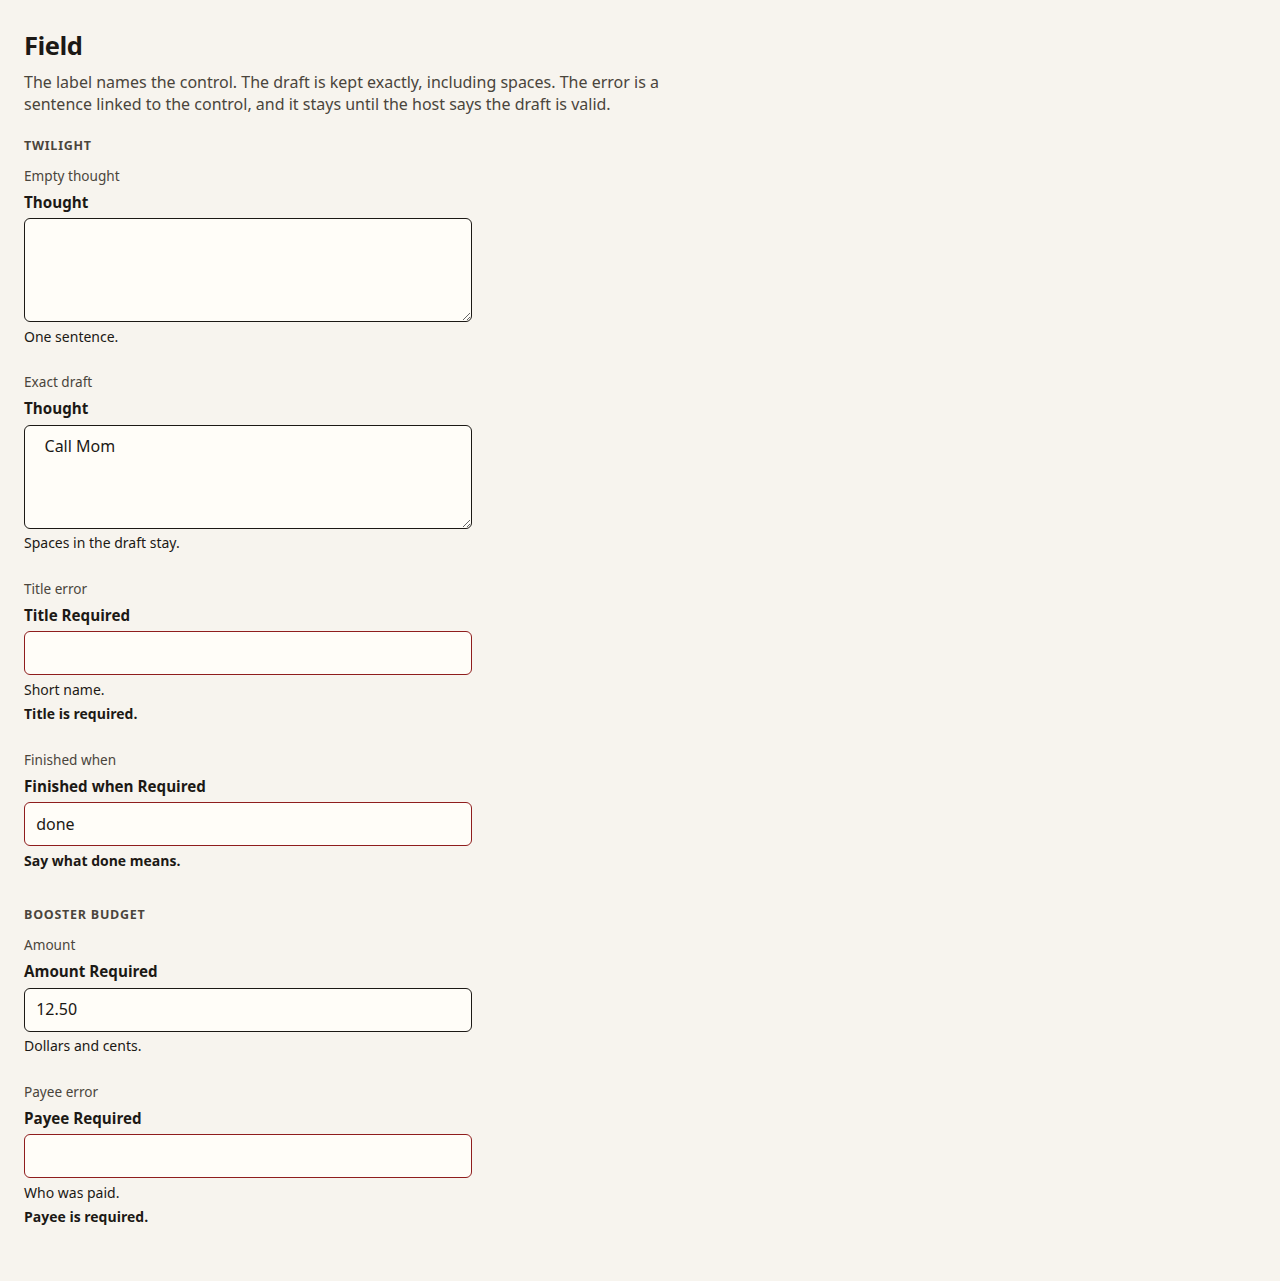
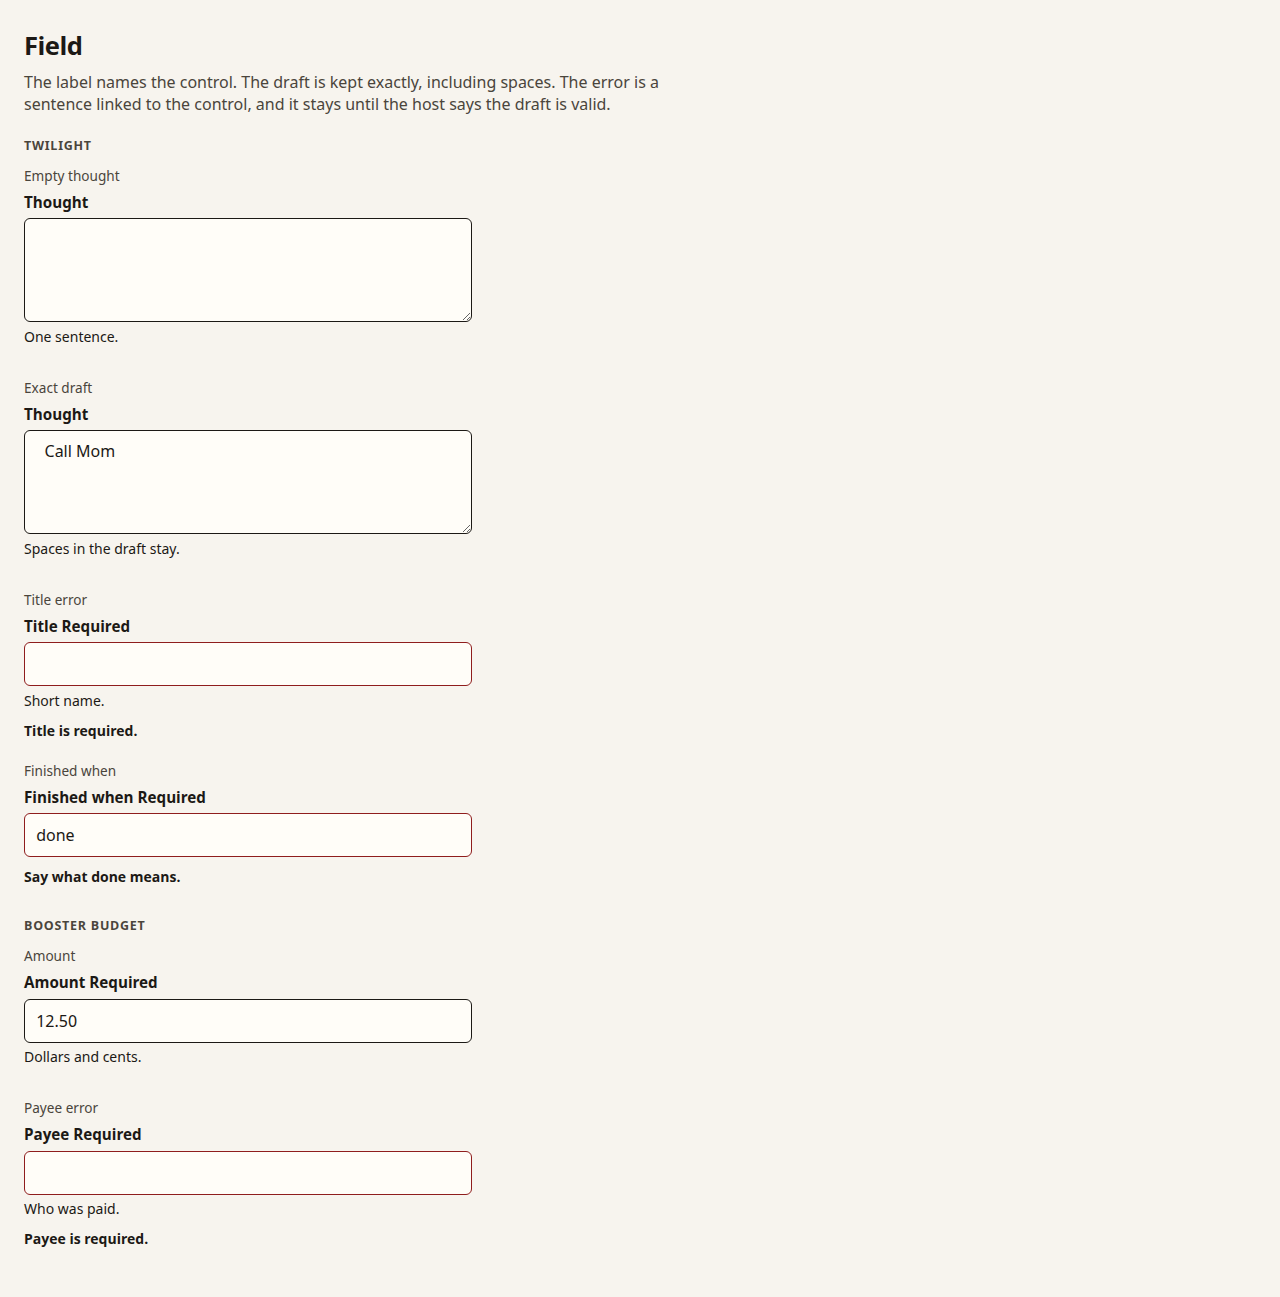
fix(components): announce Field errors after mount, once
An initial error stays out of the first paint, then fills the alert.
The same sentence is announced again after the draft changes. The
alert is the only copy, and the control points at it.

diff --git a/packages/ignite-components/src/field/field.source.ts b/packages/ignite-components/src/field/field.source.ts
@@ -18,6 +18,11 @@ export type FieldContext = {
 	hint: string | null;
 	error: string | null;
 	errorAnnouncement: string | null;
+	/** Set when the same sentence must be announced again after a draft change. */
+	repeatError: string | null;
+	errorEpoch: number;
+	draftSinceError: boolean;
+	paintNonce: number;
 	required: boolean;
 	multiline: boolean;
 	touched: boolean;
@@ -30,7 +35,8 @@ export type FieldEvent =
 	| { type: "SET_ERROR"; error: string | null }
 	| { type: "SET_REQUIRED"; required: boolean }
 	| { type: "SET_MULTILINE"; multiline: boolean }
-	| { type: "TOUCH" };
+	| { type: "TOUCH" }
+	| { type: "REVEAL" };
 
 /** The draft is the exact string. Leading and trailing spaces stay. */
 export function exactDraft(value: string | null): string {
@@ -74,23 +80,51 @@ export const fieldMachine = setup({
 		applyLabel: assign({
 			label: ({ event }) => (event.type === "SET_LABEL" ? event.label : ""),
 		}),
-		applyValue: assign({
-			value: ({ event }) =>
-				event.type === "SET_VALUE" ? exactDraft(event.value) : "",
+		applyValue: assign(({ context, event }) => {
+			if (event.type !== "SET_VALUE") return {};
+			const value = exactDraft(event.value);
+			return {
+				value,
+				draftSinceError:
+					value !== context.value ? true : context.draftSinceError,
+			};
 		}),
 		applyHint: assign({
 			hint: ({ event }) =>
 				event.type === "SET_HINT" ? normalizeOptional(event.hint) : null,
 		}),
-		applyError: assign({
-			error: ({ event }) =>
-				event.type === "SET_ERROR" ? normalizeError(event.error) : null,
-			errorAnnouncement: ({ event }) =>
-				event.type === "SET_ERROR" ? normalizeError(event.error) : null,
+		applyError: assign(({ context, event }) => {
+			if (event.type !== "SET_ERROR") return {};
+			const error = normalizeError(event.error);
+			const repeat =
+				error !== null &&
+				error === context.errorAnnouncement &&
+				context.draftSinceError;
+			return {
+				error,
+				errorAnnouncement: repeat ? "" : error,
+				repeatError: repeat ? error : null,
+				errorEpoch: context.errorEpoch + 1,
+				draftSinceError: false,
+			};
 		}),
 		clearError: assign({
 			error: () => null,
 			errorAnnouncement: () => ERROR_CLEARED,
+			repeatError: () => null,
+			draftSinceError: () => false,
+		}),
+		reveal: assign(({ context }) => {
+			const restored = context.repeatError
+				? context.repeatError
+				: context.errorAnnouncement && context.errorAnnouncement.length > 0
+					? context.errorAnnouncement
+					: context.error;
+			return {
+				paintNonce: context.paintNonce + 1,
+				errorAnnouncement: restored,
+				repeatError: null,
+			};
 		}),
 		applyRequired: assign({
 			required: ({ event }) =>
@@ -130,7 +164,11 @@ export const fieldMachine = setup({
 			value: exactDraft(input?.value ?? ""),
 			hint: normalizeOptional(input?.hint ?? null),
 			error,
-			errorAnnouncement: error,
+			errorAnnouncement: null,
+			repeatError: null,
+			errorEpoch: 0,
+			draftSinceError: false,
+			paintNonce: 0,
 			required: input?.required ?? false,
 			multiline: input?.multiline ?? false,
 			touched: input?.touched ?? false,
@@ -149,6 +187,7 @@ export const fieldMachine = setup({
 		SET_REQUIRED: { actions: "applyRequired" },
 		SET_MULTILINE: { actions: "applyMultiline" },
 		TOUCH: { actions: ["markTouched", "announceTouch"] },
+		REVEAL: { actions: "reveal" },
 	},
 	states: {
 		clean: {

diff --git a/packages/ignite-components/src/field/field.a11y.test.ts b/packages/ignite-components/src/field/field.a11y.test.ts
@@ -17,6 +17,7 @@ function mount() {
 		setHint: (hint: string | null) => void;
 		setError: (error: string | null) => void;
 		setRequired: (required: string | null) => void;
+		setValue: (value: string | null) => void;
 	};
 	element.setAttribute("label", "Title");
 	document.body.appendChild(element);
@@ -40,12 +41,10 @@ describe("Field accessibility", () => {
 		expect(control.hasAttribute("disabled")).toBe(false);
 		const describedBy = control.getAttribute("aria-describedby") ?? "";
 		const hint = view.getByText("Short name.");
-		const error = view
-			.getAllByText("Title is required.")
-			.find((node) => node.tagName === "P");
-		expect(error).toBeTruthy();
+		const error = view.getByRole("alert");
+		expect(view.getAllByText("Title is required.")).toHaveLength(1);
 		expect(describedBy).toContain(hint.id);
-		expect(describedBy).toContain(error?.id);
+		expect(describedBy).toContain(error.id);
 		expect(hint.id).not.toBe("field-hint");
 		expect(view.getByRole("alert").textContent).toContain("Title is required.");
 		expect(view.getByText("Required")).toBeTruthy();
@@ -78,6 +77,39 @@ describe("Field accessibility", () => {
 		expect(
 			view.getByRole("textbox").getAttribute("aria-describedby"),
 		).not.toContain(secondHint.id);
+	});
+
+	it("repeats the same error after the draft changes", async () => {
+		const { element, view } = mount();
+		const host = element;
+		const alert = view.getByRole("alert");
+		expect(alert.textContent).toContain("Title is required.");
+		host.setValue("Buy milk");
+		host.setError("Title is required.");
+		expect(alert.textContent ?? "").not.toContain("Title is required.");
+		await new Promise<void>((resolve) => {
+			queueMicrotask(() => resolve());
+		});
+		expect(view.getAllByText("Title is required.")).toHaveLength(1);
+		expect(alert.textContent).toContain("Title is required.");
+	});
+
+	it("keeps an initial error out of the first paint", async () => {
+		if (!customElements.get(TAG)) {
+			createFieldCore()(TAG, fieldView);
+		}
+		const element = document.createElement(TAG);
+		element.setAttribute("label", "Title");
+		element.setAttribute("error", "Title is required.");
+		document.body.appendChild(element);
+		const root = element.shadowRoot as unknown as HTMLElement;
+		const alert = root.querySelector("[role='alert']");
+		expect(alert?.textContent ?? "").not.toContain("Title is required.");
+		await new Promise<void>((resolve) => {
+			queueMicrotask(() => resolve());
+		});
+		expect(alert?.textContent).toContain("Title is required.");
+		expect(within(root).getAllByText("Title is required.")).toHaveLength(1);
 	});
 
 	it("keeps field ink at WCAG AA", () => {

diff --git a/packages/ignite-components/src/field/field.view.tsx b/packages/ignite-components/src/field/field.view.tsx
@@ -3,6 +3,7 @@ import type { IgniteJsxElement } from "ignite-element/jsx";
 import {
 	liveStatusRegion,
 	liveStatusRegionStyles,
+	spokenOnThisPaint,
 } from "../live-status/live-status.region";
 import { catalogHostStyles } from "../styles";
 import type { FieldCommands, FieldStates } from "./field.core";
@@ -31,12 +32,12 @@ const styles = `${catalogHostStyles()}${liveStatusRegionStyles()}
 textarea.control { min-height: 6.5rem; resize: vertical; }
 .control:focus { outline: 2px solid var(--catalog-fg); outline-offset: 2px; }
 .control[aria-invalid="true"] { border-color: #8f1d1d; }
-.hint, .error {
+.hint {
   margin: 0;
   color: var(--catalog-fg);
   font: 400 0.875rem/1.35 var(--catalog-font);
 }
-.error { font-weight: 650; }
+.live-assertive { font-weight: 650; }
 `;
 
 function readControl(event: Event): string | null {
@@ -53,7 +54,7 @@ function readControl(event: Event): string | null {
 function describedBy(ctx: FieldViewContext): string | undefined {
 	const ids = [
 		ctx.showHint ? `${ctx.instanceId}-hint` : null,
-		ctx.showError ? `${ctx.instanceId}-error` : null,
+		ctx.showError ? `${ctx.instanceId}-assertive` : null,
 	].filter((id) => id !== null);
 	return ids.length > 0 ? ids.join(" ") : undefined;
 }
@@ -63,6 +64,28 @@ function describedBy(ctx: FieldViewContext): string | undefined {
  * The host clears the error when the draft is valid. Typing does not.
  */
 export function fieldView(ctx: FieldViewContext): IgniteJsxElement {
+	if (ctx.repeatError) {
+		queueMicrotask(() => {
+			try {
+				ctx.reveal();
+			} catch {
+				// The field can disconnect before the error is repeated.
+			}
+		});
+	}
+	const announcement =
+		ctx.errorAnnouncement &&
+		ctx.errorAnnouncement.length > 0 &&
+		!ctx.repeatError
+			? ctx.errorAnnouncement
+			: null;
+	const show = spokenOnThisPaint(
+		ctx.instanceId,
+		`${announcement ?? ""}|${ctx.errorEpoch}`,
+		() => {
+			ctx.reveal();
+		},
+	);
 	const controlId = `${ctx.instanceId}-control`;
 	const controlProps = {
 		id: controlId,
@@ -98,15 +121,10 @@ export function fieldView(ctx: FieldViewContext): IgniteJsxElement {
 						{ctx.hint}
 					</p>
 				) : null}
-				{ctx.showError ? (
-					<p id={`${ctx.instanceId}-error`} class="error">
-						{ctx.error}
-					</p>
-				) : null}
 				{liveStatusRegion({
 					instanceId: ctx.instanceId,
 					polite: null,
-					assertive: ctx.errorAnnouncement,
+					assertive: show ? announcement : null,
 					busy: false,
 					progress: "none",
 					settled: null,

diff --git a/packages/ignite-components/src/field/field.states.test.ts b/packages/ignite-components/src/field/field.states.test.ts
@@ -1,6 +1,7 @@
 // @vitest-environment node
 
 import { describe, expect, it } from "vitest";
+import { createActor } from "xstate";
 import {
 	assertFlagReasons,
 	assertGalleryCoversStates,
@@ -9,6 +10,7 @@ import { expectCloneable } from "../testing/host-seal";
 import { fieldContract } from "./field.contract";
 import { createFieldCore, fieldProjection } from "./field.core";
 import { type FieldFixtureInput, fieldGallery } from "./field.gallery";
+import { fieldMachine } from "./field.source";
 
 async function show(input: FieldFixtureInput) {
 	const core = createFieldCore();
@@ -187,6 +189,42 @@ describe("Field states", () => {
 				error: null,
 				errorAnnouncement: "Error cleared.",
 				a11y: { cli: "Error cleared.", mcp: { isError: false, errors: [] } },
+			});
+		} finally {
+			core.dispose();
+		}
+	});
+
+	it("does not announce an initial error until a later update", () => {
+		const actor = createActor(fieldMachine, {
+			input: { label: "Title", error: "Title is required." },
+		});
+		actor.start();
+		try {
+			expect(actor.getSnapshot().context.error).toBe("Title is required.");
+			expect(actor.getSnapshot().context.errorAnnouncement).toBeNull();
+		} finally {
+			actor.stop();
+		}
+	});
+
+	it("repeats the same error after the draft changes", async () => {
+		const core = createFieldCore();
+		try {
+			core.watch(() => {});
+			await core.execute({ command: "setError", input: "Title is required." });
+			await core.execute({ command: "setValue", input: "Buy milk" });
+			await core.execute({ command: "setError", input: "Title is required." });
+			expect(core.get("states")).toMatchObject({
+				error: "Title is required.",
+				errorAnnouncement: null,
+				repeatError: "Title is required.",
+			});
+			await core.execute({ command: "reveal" });
+			expect(core.get("states")).toMatchObject({
+				errorAnnouncement: "Title is required.",
+				repeatError: null,
+				a11y: { cli: "error: Title is required." },
 			});
 		} finally {
 			core.dispose();

diff --git a/packages/ignite-components/src/field/field.core.ts b/packages/ignite-components/src/field/field.core.ts
@@ -21,6 +21,8 @@ export type FieldStates = {
 	hint: string | null;
 	error: string | null;
 	errorAnnouncement: string | null;
+	repeatError: string | null;
+	errorEpoch: number;
 	required: boolean;
 	multiline: boolean;
 	touched: boolean;
@@ -47,6 +49,7 @@ export type FieldCommands = {
 	setRequired: (required: string | null) => void;
 	setMultiline: (multiline: string | null) => void;
 	touch: () => void;
+	reveal: () => void;
 };
 
 const NO_ERROR = "There is no error.";
@@ -62,7 +65,9 @@ export function projectField(
 	const invalid = snapshot.matches("invalid");
 	const error = invalid ? normalizeError(snapshot.context.error) : null;
 	const hint = normalizeOptional(snapshot.context.hint);
-	const errorAnnouncement = snapshot.context.errorAnnouncement;
+	const rawAnnouncement = snapshot.context.errorAnnouncement;
+	const errorAnnouncement =
+		rawAnnouncement && rawAnnouncement.length > 0 ? rawAnnouncement : null;
 	const required = snapshot.context.required;
 	const touched = snapshot.context.touched;
 	const multiline = snapshot.context.multiline;
@@ -81,6 +86,8 @@ export function projectField(
 		hint,
 		error,
 		errorAnnouncement,
+		repeatError: snapshot.context.repeatError,
+		errorEpoch: snapshot.context.errorEpoch,
 		required,
 		multiline,
 		touched,
@@ -138,6 +145,9 @@ export function fieldCommands(source: {
 		},
 		touch: () => {
 			source.send({ type: "TOUCH" });
+		},
+		reveal: () => {
+			source.send({ type: "REVEAL" });
 		},
 	};
 }

diff --git a/packages/ignite-components/src/field/field.dom.test.ts b/packages/ignite-components/src/field/field.dom.test.ts
@@ -55,10 +55,9 @@ describe("Field DOM", () => {
 				expect(view.getByText(fixture.input.hint)).toBeTruthy();
 			}
 			if (fixture.input.error) {
-				const error = view
-					.getAllByText(fixture.input.error)
-					.find((node) => node.tagName === "P");
-				expect(control.getAttribute("aria-describedby")).toContain(error?.id);
+				const error = view.getByRole("alert");
+				expect(view.getAllByText(fixture.input.error)).toHaveLength(1);
+				expect(control.getAttribute("aria-describedby")).toContain(error.id);
 			}
 		}
 	});
@@ -86,7 +85,7 @@ describe("Field DOM", () => {
 		expect(inputs).toEqual(["  Buy milk  "]);
 		expect(changes).toEqual([]);
 		expect(touches).toEqual(["  Buy milk  "]);
-		expect(view.getAllByText("Title is required.").length).toBeGreaterThan(0);
+		expect(view.getAllByText("Title is required.")).toHaveLength(1);
 		element.setError(null);
 		expect(view.queryAllByText("Title is required.")).toEqual([]);
 	});
